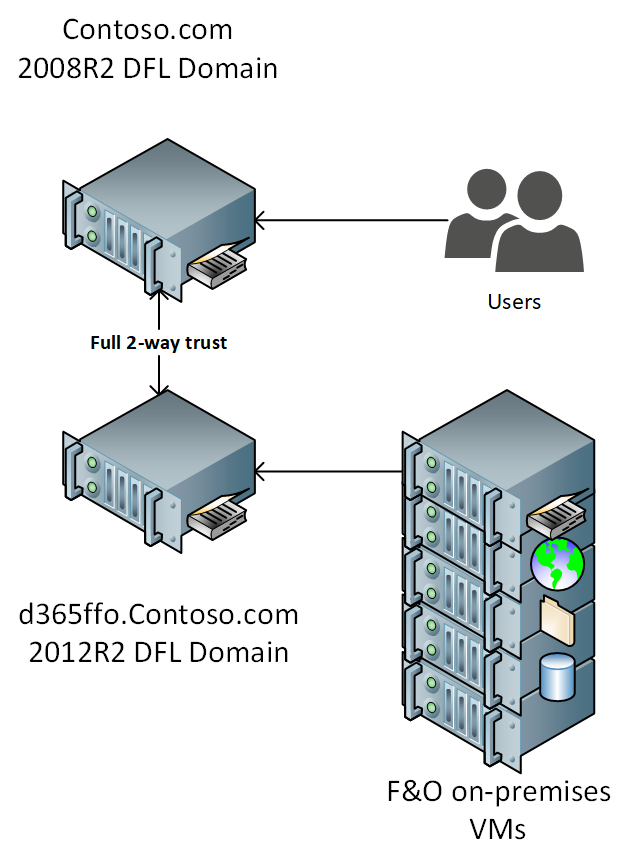
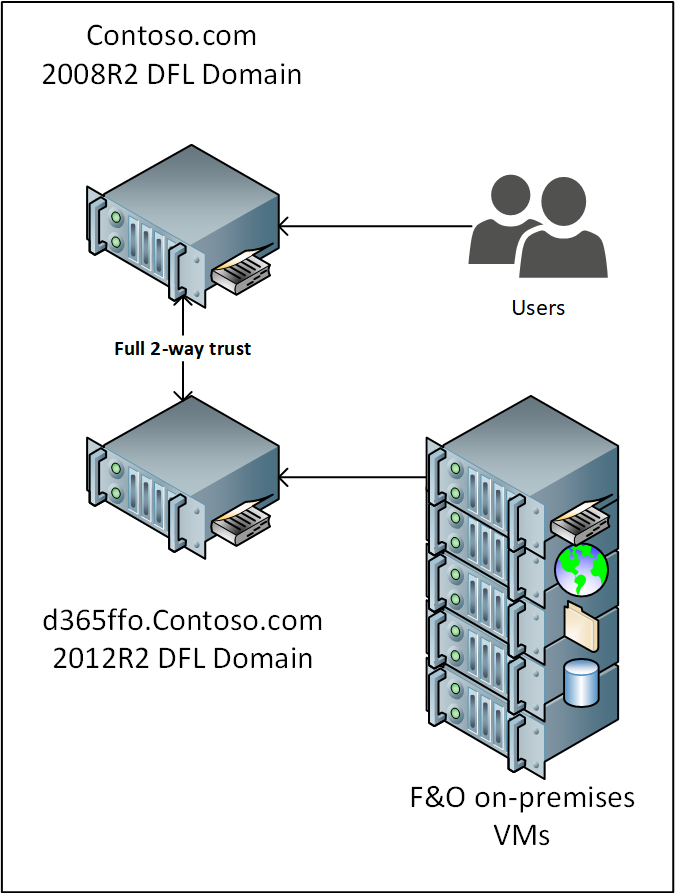
Updated Picture

Changed region(s): [[0.0908, 0.0, 1.0, 0.9988], [0.0, 0.0, 0.4841, 0.9988], [0.2118, 0.1561, 0.3328, 0.1873]]

diff --git a/articles/fin-ops-core/fin-ops/get-started/system-requirements-on-prem.md b/articles/fin-ops-core/fin-ops/get-started/system-requirements-on-prem.md
@@ -114,7 +114,7 @@ This means that users of the Dynamics 365 F&O application will come from the 200
 
 An example for this setup could be:
 
-<img src="./media/lbd-domain2WayTrust.png" width="300"/>
+<img src="./media/lbd-domain2WayTrust.png" width="350" hspace="50"/>
 
 #### Known limitations with using the Full 2-way trust setup:
 * Import of security groups from the 2008R2 user domain
